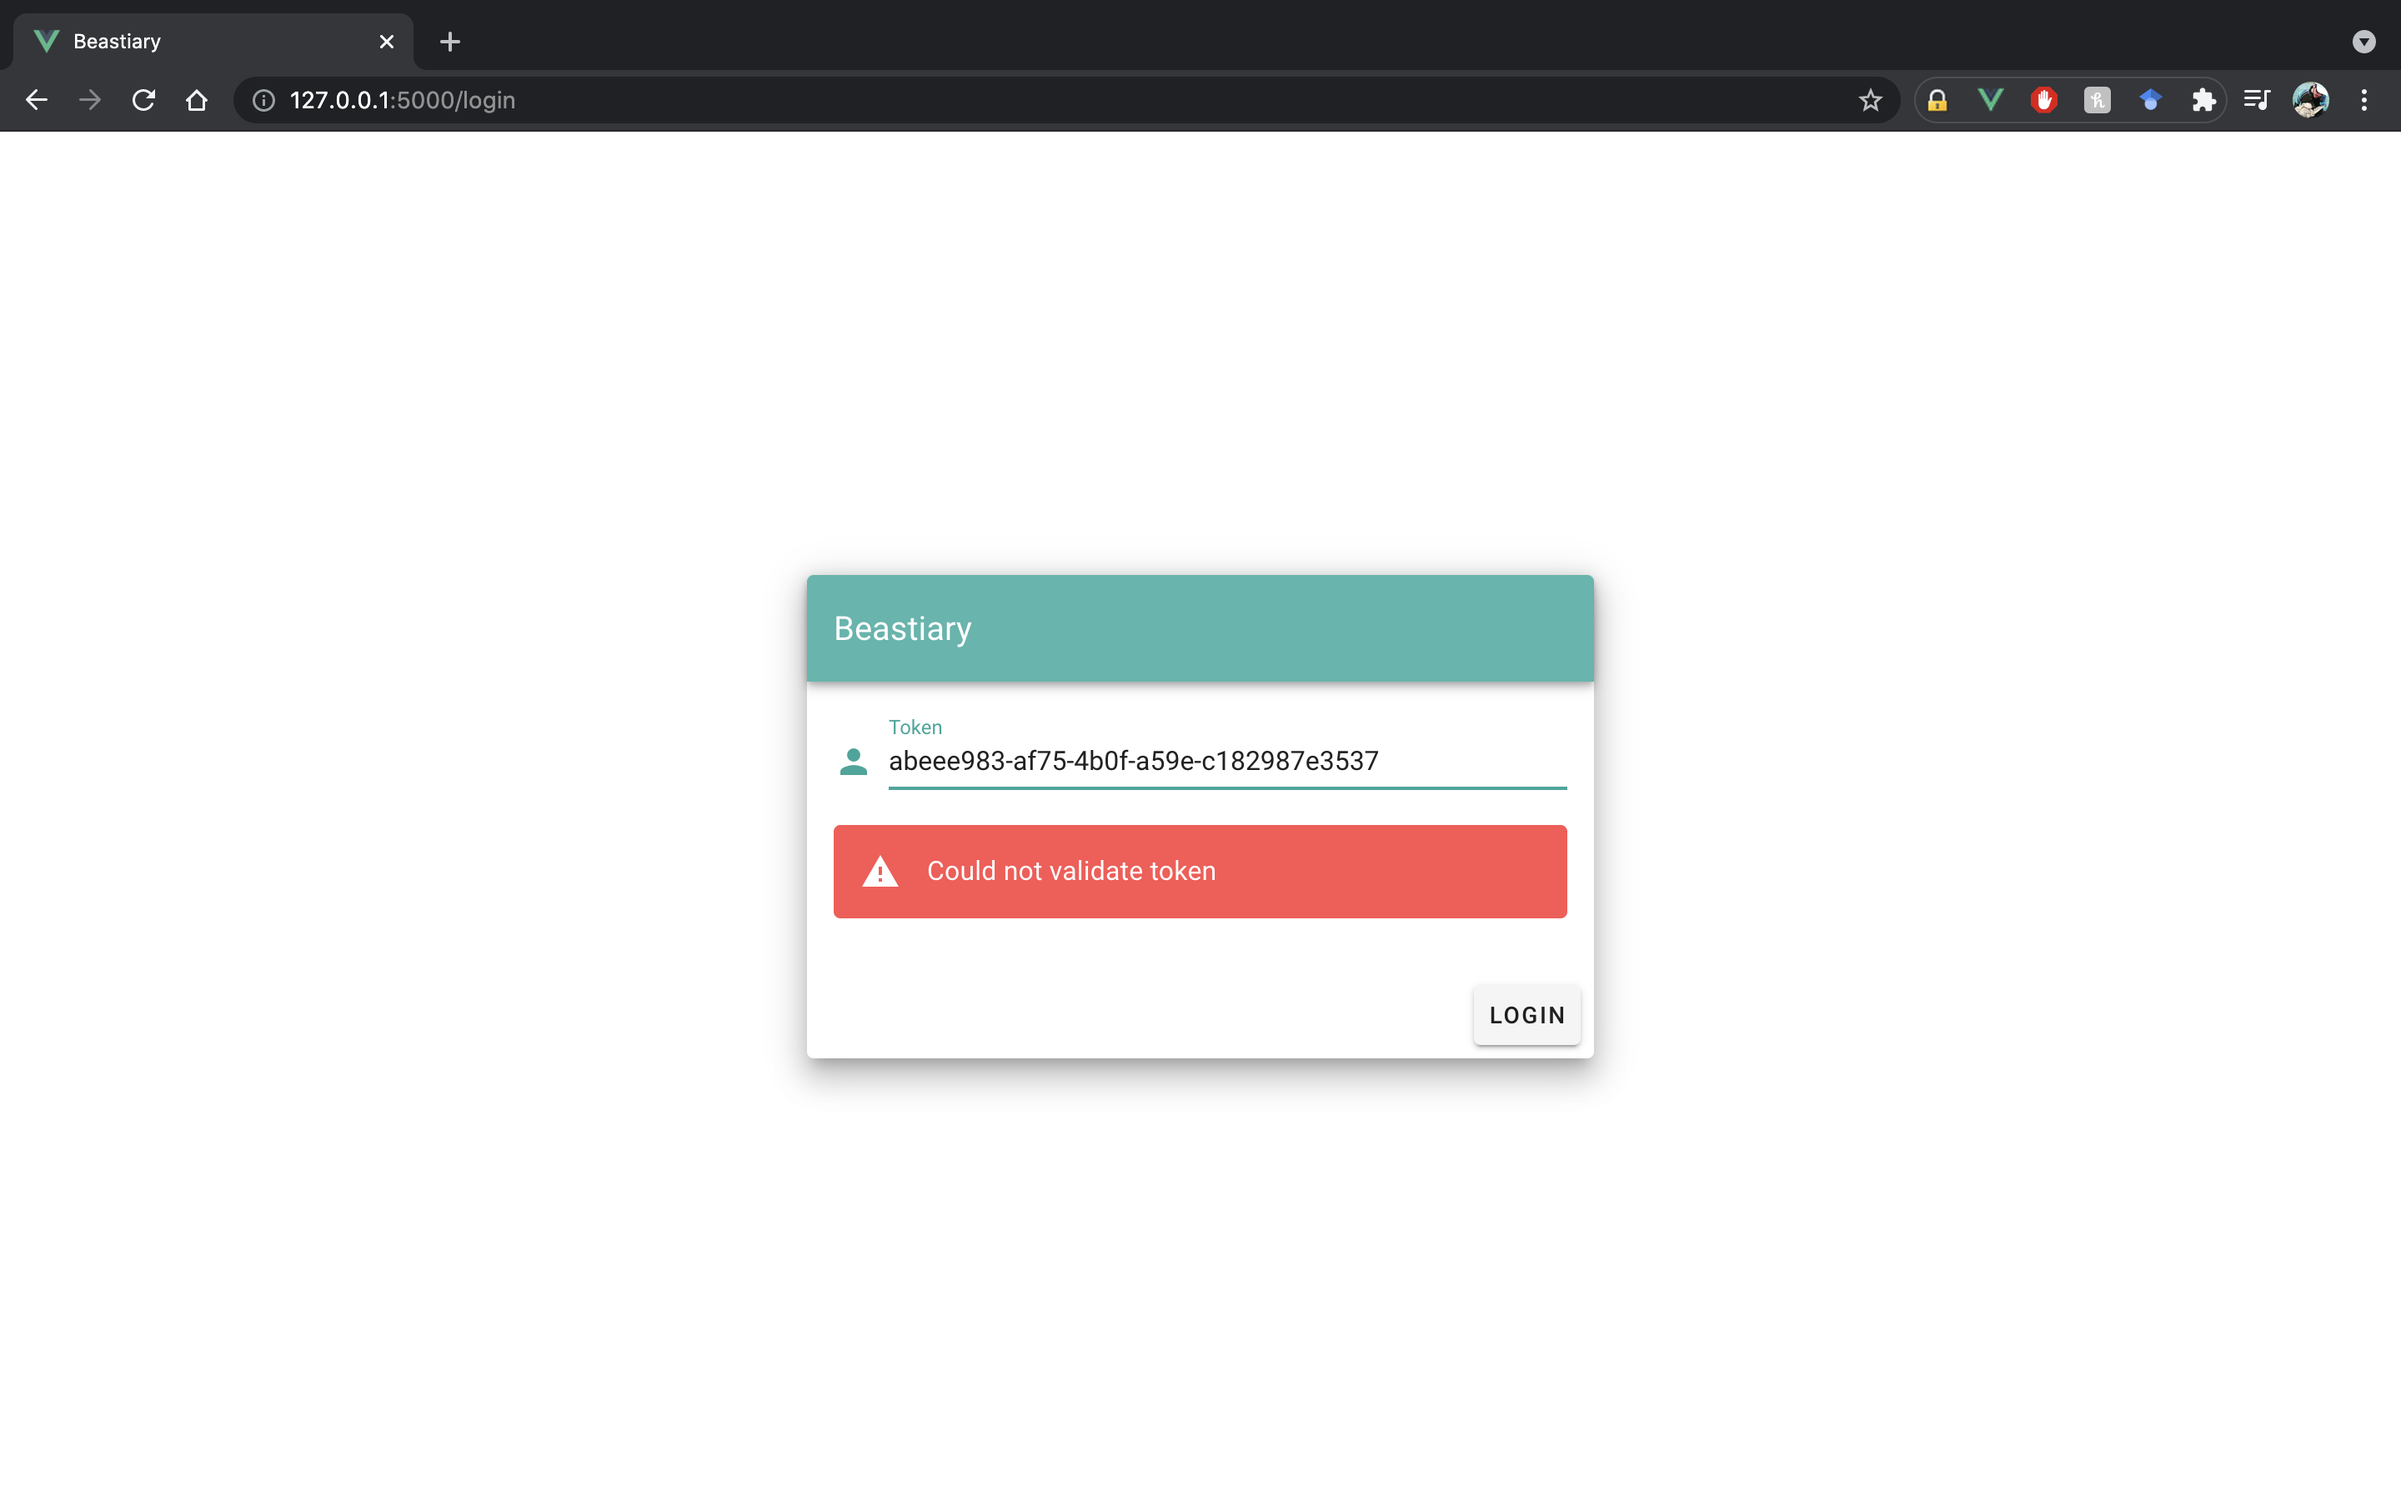
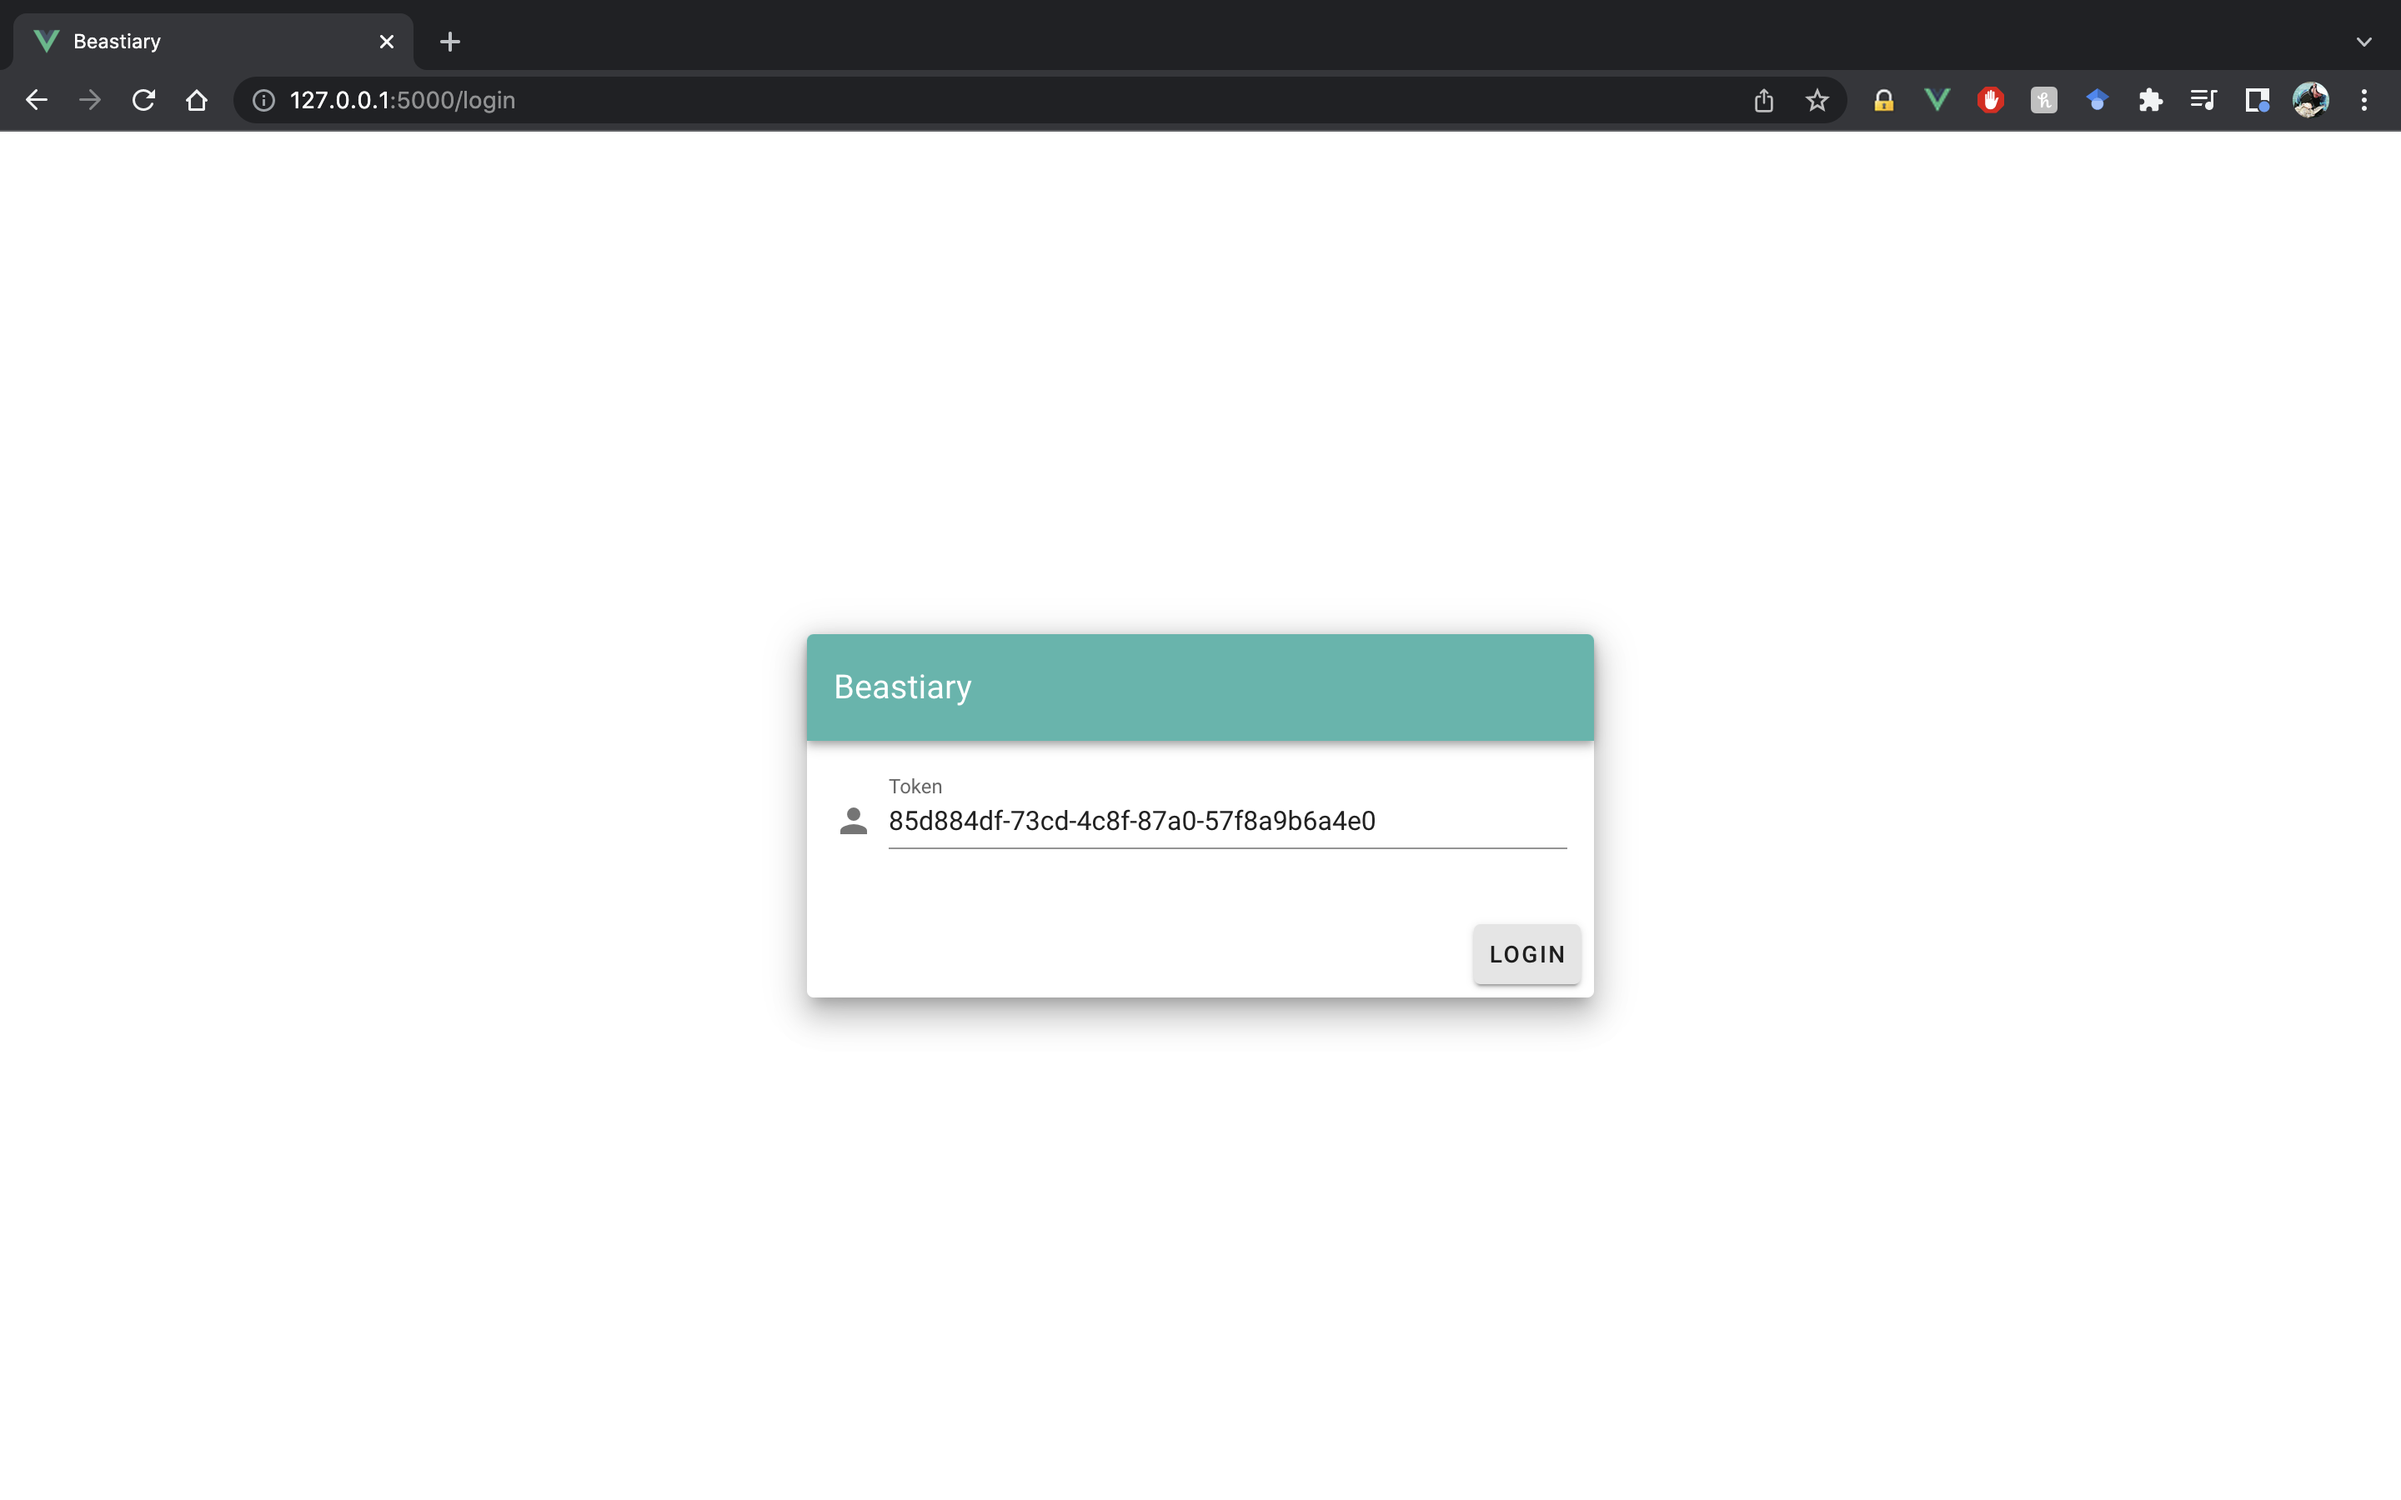
:art: update login screenshot

Changed region(s): [[0.3125, 0.3733, 0.6875, 0.7467], [0.75, 0.0311, 0.9375, 0.0933]]

diff --git a/docs/tutorial/first-steps.md b/docs/tutorial/first-steps.md
@@ -13,9 +13,9 @@ If prompted enter token: 8e02d06b-d30e-4a89-8476-fb22712a31b3
 
 </div>
 
-The server will start on [http://127.0.0.1:5000/](http://127.0.0.1:5000/) by default. Every time the server starts it will generate a unique id that can be used to log into the webapp. 
+The server will start on [http://127.0.0.1:5000/](http://127.0.0.1:5000/) by default. Every time the server starts it will generate a unique token that can be used to log into the webapp. 
 
-Go to [http://127.0.0.1:5000/](http://127.0.0.1:5000/) and log in with the ID. 
+Go to [http://127.0.0.1:5000/](http://127.0.0.1:5000/) and log in with the token. 
 
 ![](../images/login_screen_shot.png)
 
